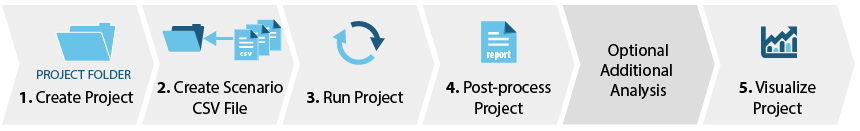
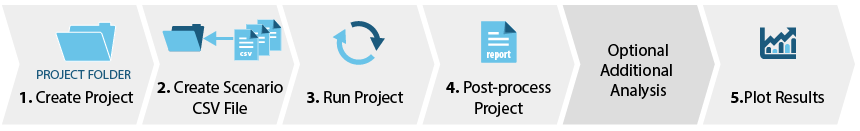
wording and image fixes

Changed region(s): [[0.8465, 0.6107, 0.9674, 0.8855], [0.8767, 0.1832, 0.9372, 0.458]]

diff --git a/getting_started/getting_started.md b/getting_started/getting_started.md
@@ -6,12 +6,12 @@ nav_order: 1
 <div class="row">
 	<div class="col">
 		<p>To run URBANopt&trade;, first follow the <a href="../installation/installation" class="bold">installation instructions</a> to install the URBANopt CLI and all of its dependencies.</p>
-		<p>Once the CLI is installed, help is available by typing uo --help from the command line.  Detailed help for each command can be found with uo command --help. The main CLI commands are: create, run, process, visualize, opendss, and delete.</p>
-		<p>Before you start, think about the types of analyses you are interested in performing and set up your project accordingly.  The best way to start is to use the example project made with the CLI.  Once you are fmaliar wiht the commands you can customize your project.</p> 
+		<p>Once the CLI is installed, help is available by typing <code><span class="code-text">uo --help</span></code> from the command line.  Detailed help for each command can be found with <code><span class="code-text">uo [the command name] --help</span></code>. The main CLI commands are: <code><span class="code-text">create</span></code>, <code><span class="code-text">run</span></code>, <code><span class="code-text">process</span></code>, <code><span class="code-text">visualize</span></code>, <code><span class="code-text">opendss</span></code>, and <code><span class="code-text">delete</span></code>.</p>
+		<p>Before you start, think about the capabilities and analyses you want to utilize and setup your project accordingly. The best way to start is to use the example project made with the CLI.  Once you are familiar with the commands you can customize your project.</p> 
 	</div>
 	<div class="col" style="padding-left:20px;">
 	<h2 style="padding-bottom:20px;">Important Notes</h2>
-	<p>Keep the project directory path short to avoid errors related to long paths, especially when runnign on Windows.  For more information on this error, refer to the <a href="../developer_resources/known_issues" class="bold">known issues section</a>.</p>
+	<p>Keep the project directory path short to avoid errors related to long paths, especially when running on Windows.  For more information on this error, refer to the <a href="../developer_resources/known_issues" class="bold">known issues section</a>.</p>
 	<p>We recommend calling all URBANopt commands from outside of the project you created, using relative or absolute paths to the relevant files.</p>
 	<div style="float:right;padding-top:30px;padding-right:20px;"><a href="../resources/definitions" class="btn btn-uo white-text">Definitions</a></div>
 	</div>
@@ -73,7 +73,7 @@ nav_order: 1
       <p>In order to use the OpenDSS functionality successfully, the FeatureFile should contain Electrical Connectors and Junctions.  Use the command below to create an example project containing a FeatureFile with electrical network defined within it (<code>example_project_with_electric_network.json</code>). You can also use your own Feature File as long as the electrical infrastructure is defined and connected to the buildings accordingly.</p>
       <div class="language-terminal highlighter-rouge"><pre class="highlight"><code><span class="code-text">  uo create --electric --project-folder &lt;path/to/PROJECT_DIRECTORY_NAME&gt;</span></code></pre>
       </div>
-      <p>View the <a href="#opendss" class="bold">OpenDSS section</a> under <a href="#analyses" class="bold">Additional Analyses</a> below for more details on the OpenDSS functionality.</p>
+      <p>View the <a href="#opendss" class="bold">OpenDSS section</a> under <a href="#analyses" class="bold">Additional Capabilities</a> below for more details on the OpenDSS functionality.</p>
     </div>
   </li>
 </ul>
@@ -120,11 +120,11 @@ nav_order: 1
         <div class="language-terminal highlighter-rouge"><pre class="highlight"><code><span class="code-text">uo create --reopt-scenario-file &lt;path/to/EXISTING_SCENARIO_FILE.csv&gt;</span></code></pre></div>
         </li>
         <li><p>Configure your REopt assumptions. Two example <strong>REopt Lite</strong> assumption files are located in the <code>reopt</code> folder within your project directory:  <code>base_assumptions.json</code> and <code>multiPV_assumptions.json</code>. These files follow the format outlined in the <a href="https://developer.nrel.gov/docs/energy-optimization/reopt-v1/" target="_blank" class="bold">REopt Lite API documentation</a> and can be customized to your specific project needs. Though CLI commands, they will be updated with basic information from your Feature and Scenario Reports (i.e. latitude, longitude, electric load profile) and submitted to the <strong>REopt Lite API</strong>.</p>
-        <p>In particular, you will want to make sure that the <code>urdb_label</code> in the assumptions file maps to a suitable utility rate <em>label</em> from the <a href="https://openei.org/apps/IURDB/" target="_blank" class="bold">URDB</a>. The <em>label</em> is the last term of the URL of a utility rate detail page (i.e. the <em>label</em> for the rate at <a href="https://openei.org/apps/IURDB/rate/view/5b0d83af5457a3f276733305" target="_blank" class="bold">https://openei.org/apps/IURDB/rate/view/5b0d83af5457a3f276733305</a> is 5b0d83af5457a3f276733305).</p>
-        <p>Also note that the example <code>reopt/multiPV_assumptions.json</code> file contains an array of PV inputs to allow for the optimization of multiple PV systems at once.</p>
+        <p>In particular, you will want to make sure that the <code>urdb_label</code> in the assumptions file maps to a suitable utility rate <em>label</em> from the <a href="https://openei.org/apps/IURDB/" target="_blank" class="bold">URDB</a>. The <em>label</em> is the last term of the URL of a utility rate detail page (e.g. the <em>label</em> for the rate at <a href="https://openei.org/apps/IURDB/rate/view/5b0d83af5457a3f276733305" target="_blank" class="bold">https://openei.org/apps/IURDB/rate/view/5b0d83af5457a3f276733305</a> is 5b0d83af5457a3f276733305).</p>
+        <p>Also note that the example <code>reopt/multiPV_assumptions.json</code> file contains an array of PV inputs to allow for the optimization of multiple PV systems at once (e.g. rooftop and ground-mount).</p>
         </li>
       </ol>
-      <p>Visit the <a href="../additional_documentation/reopt/reopt" class="bold">REopt page</a> for more details on using REopt in URBANopt.</p>
+      <p>Visit the <a href="../additional_documentation/reopt/reopt" class="bold">REopt page</a> for more details on using REopt with URBANopt.</p>
     </div>
   </li>
 </ul>
@@ -261,11 +261,11 @@ nav_order: 1
 
 <div class="row blue-section">
   <div class="col-12">
-    <h2 class="white-text" id="analyses">Additional Analyses (Optional)</h2>
+    <h2 class="white-text" id="analyses">Additional Capabilities (Optional)</h2>
     <p>Add Electrical Distribution or Distributed Thermal Systems Analysis to your Scenario</p>
   </div>
 </div>
-<p>Expand the sections below to learn more about optional functionality available in URBANopt</p>
+<p>Expand the sections below to learn more about optional capabilities available in URBANopt</p>
 <ul class="jk_accordion">
    <li class="acc" id="opendss"><input id="accordion17" type="checkbox" /><label for="accordion17">OpenDSS Functionality</label>
     <div class="show">
@@ -320,8 +320,8 @@ nav_order: 1
 </ul>
 <div class="row blue-section">
   <div class="col-10">
-    <h2 class="white-text" id="step5">5. Visualize Project</h2>
-    <p>Add Electrical Distribution or Distributed Thermal Systems Analysis to your Scenario</p>
+    <h2 class="white-text" id="step5">5. Plot Results</h2>
+    <p>Generate visualizations at the feature level and scenario level.</p>
   </div>
   <div class="col-2 my-auto"><img src="../doc_files/started__step5_graphic.png" alt="icon of a chart"></div>
 </div>
@@ -342,4 +342,4 @@ nav_order: 1
     </div>
   </li>
 </ul>
-<p>Note&mash;You need to run the default post-process command before visualizing the results.</p>
+<p>Note&mdash;You need to run the default post-process command before visualizing the results.</p>

diff --git a/resources/structure.md b/resources/structure.md
@@ -5,19 +5,19 @@ parent: Resources
 nav_order: 2
 ---
 
-The URBANopt<sup>&trade;</sup> SDK consists of 5 main modules at its core: `urbanopt-core-gem`, `urbanopt-scenario-gem`, `urbanopt-reopt-gem`, `urbanopt-geojson-gem`, and `urbanopt-reopt-gem`. The modules are connected together and accessed via the **Command Line Interface** (`urbanopt-cli`). Visit the [Getting Started](../getting_started/getting_started) page for more details on how to run an URBANopt project.
+The URBANopt<sup>&trade;</sup> SDK consists of four main modules at its core: `urbanopt-core-gem`, `urbanopt-scenario-gem`, `urbanopt-reopt-gem`, and`urbanopt-geojson-gem`, as well as three connector modules to enable additional capabilities: `urbanopt-reopt-gem` to access the REopt Lite API, `urbanopt-ditto-reader` and its associated command line interface (CLI) `ditto cli` to access the OpenDSS workflow, and finally `geojson-modelica-translator` and its associated CLI `des cli` to enable the District Energy Systems functionality. The modules are connected together and accessed via the **Command Line Interface** (`urbanopt-cli`). Visit the [Getting Started](../getting_started/getting_started) page for more details on how to run an URBANopt project.
 
 ![URBANopt Gems](../doc_files/urbanopt-diagram-to-cli.png)
 
 The **Core** gem defines a FeatureFile class. The feature file format currently supported is GeoJSON, other formats can be supported in the future as more workflows are integrated in the SDK. The FeatureFile describes properties of each `Feature`, such as location, floor area, number of stories, building type, cooling source, etc. This Core gem in the SDK architecture allows the development of new modules that are independent of other modules.
 
-The **GeoJSON** gem is an OpenStudio Extension gem that translates a GeoJSON feature file into OpenStudio model inputs. The GeoJSON gem reads each feature from the FeatureFile (such as this [example FeatureFile](https://github.com/urbanopt/urbanopt-example-geojson-project/blob/develop/example_project/example_project.json)), converts geospatial coordinates to cartesian coordinates and extrudes geometry from 2D footprints to 3D surfaces. These properties from each Feature are translated to OpenStudio model (OSM file) inputs leveraging methods in the OpenStudio Model Articulation Gem and OpenStudio Standards Gem. _Methods to translate district systems and transformers into model inputs will be addressed in future releases._
+The **GeoJSON** gem is an OpenStudio Extension gem that translates a GeoJSON feature file into OpenStudio model inputs. The GeoJSON gem reads each feature from the FeatureFile (such as this [example FeatureFile](https://github.com/urbanopt/urbanopt-example-geojson-project/blob/develop/example_project/example_project.json)), converts geospatial coordinates to cartesian coordinates and extrudes geometry from 2D footprints to 3D surfaces. These properties from each Feature are translated to OpenStudio model (OSM file) inputs leveraging methods in the OpenStudio Model Articulation Gem and OpenStudio Standards Gem.
 
-The **Scenario** gem takes the `Scenario` you want to examine (such as [this example Scenario](https://github.com/urbanopt/urbanopt-example-geojson-project/blob/develop/example_project/baseline_scenario.csv) and runs the FeatureFile (translated by the GeoJSON gem) through OpenStudio building energy simulation. A `run` directory is created in your example project directory with folders for each Scenario and each `feature_id` within each Scenario.
+The **Scenario** gem takes the `Scenario` you want to examine (such as [this example Scenario](https://github.com/urbanopt/urbanopt-example-geojson-project/blob/develop/example_project/baseline_scenario.csv) and runs the FeatureFile (translated by the GeoJSON gem) through OpenStudio building energy simulation. A `run` directory is created in your example project directory with folders for each Scenario and each `feature_id` within a specific Scenario.
 
 The **Reporting** gem includes output-writing measures for the OpenStudio simulations. These reported results are defined by the [default_feature_report](customization/feature_reports.md) Measure. Feature level results are stored in a `default_feature_report` folder within the run directory for each Feature. Post-Processing may be executed to aggregate all Feature reports of a Scenario into a Scenario level report (e.g. aggregated energy use, aggregated building program information) that is written at the top level of each Scenario folder, inside the `run` folder.
 
-The **REopt** gem is a derivative of the Scenario gem and provides the connection to the REopt Lite optimizations.
+The **REopt** gem is a derivative of the Scenario gem and provides the connection to REopt Lite optimizations.
 
 ## Workflow Details
 

diff --git a/resources/customization/base_workflow.md b/resources/customization/base_workflow.md
@@ -11,7 +11,7 @@ The `mappers` folder contains `base_workflow.osw` which serves as a simulation i
 The URBANopt GeoJSON Workflow uses building footprints to create building models.  The diagram below contains details on the sequence and purpose of measures used to accomplish this task.
 
 <!--- TODO: Update diagram to Urban Geometry Creation Zoning measure -->
-![urbanopt measure workflow diagram](../doc_files/urbanopt_measure_workflow.png)
+![urbanopt measure workflow diagram](../../doc_files/urbanopt_default_measures_workflow.png)
 
 All measures contained in the base workflow are listed below:
 

diff --git a/index.md b/index.md
@@ -27,8 +27,7 @@ The URBANopt project is focused on enabling three primary use cases:
 
 <img src="doc_files/use_cases.png" alt="main urbanopt capabilities" width="100%" height="100%">
 
-
-The URBANopt ecosystem is shown below. 
+A summary of the capabilities associated with each use case is shown below:
 
 <img src="doc_files/uo_ecosystem.png" width="100%" height="100%" alt="uo ecosystem diagram">
 
